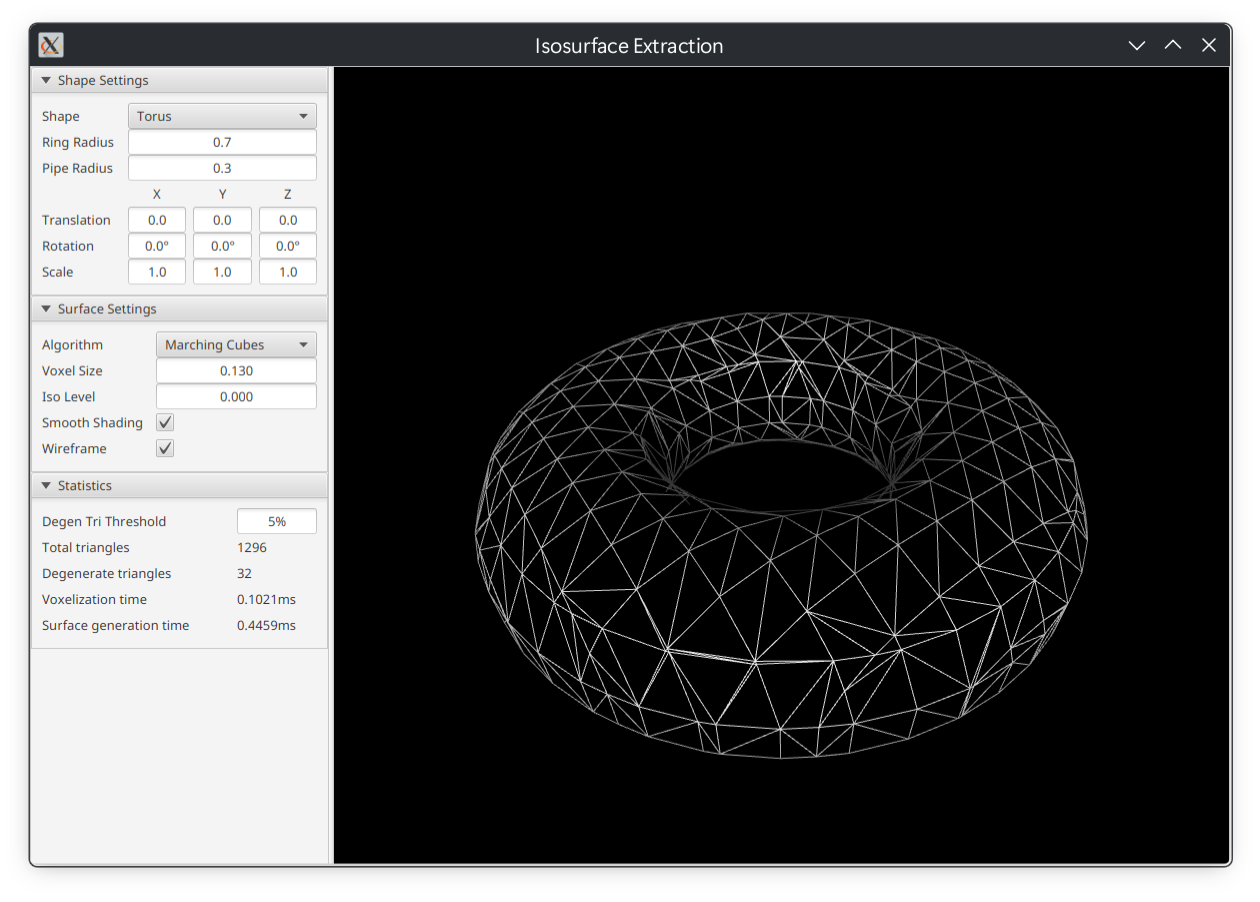
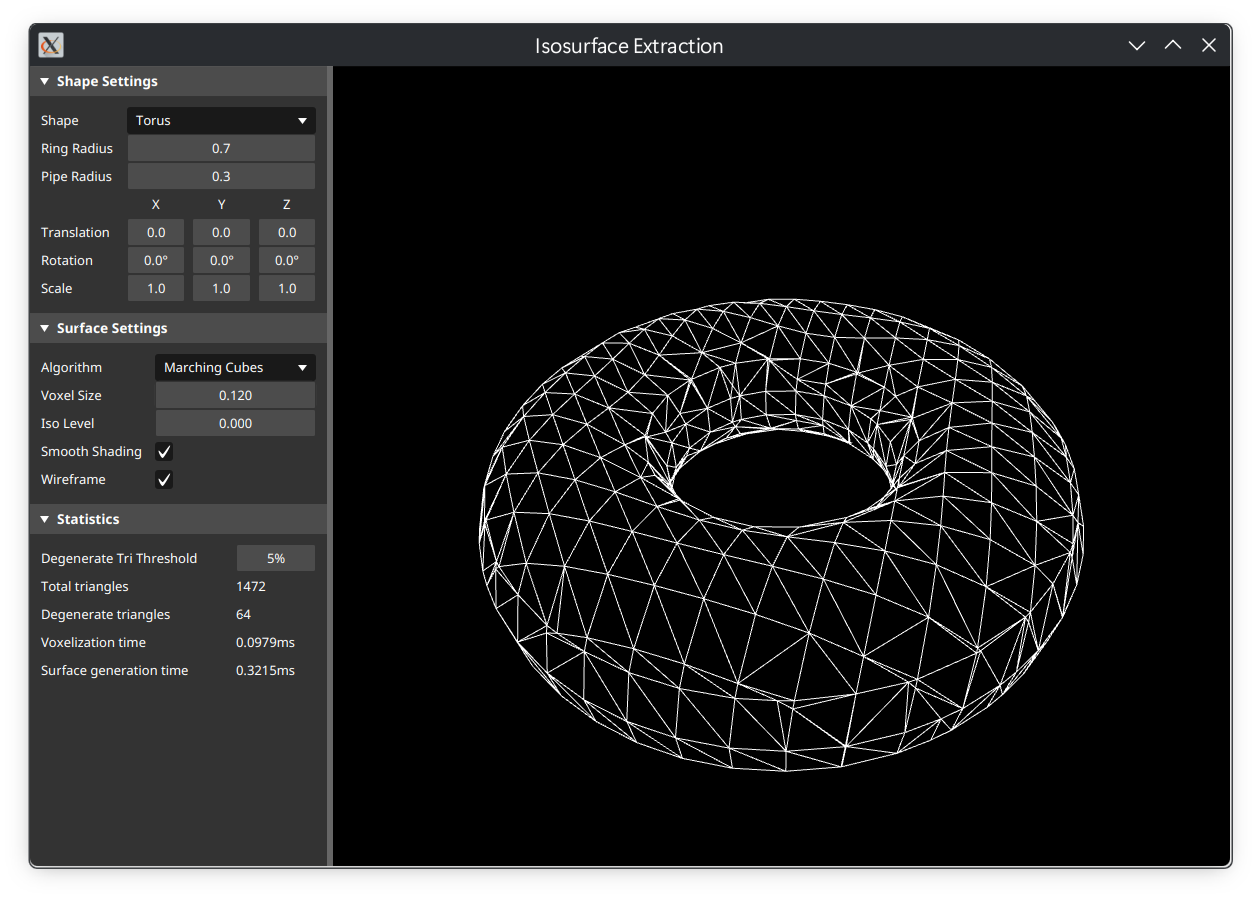
Add a custom theme
Extends the stylesheet to create a custom and more consistent GUI aesthetic.

Changed region(s): [[0.0, 0.0621, 0.9905, 0.9623], [0.3714, 0.3104, 0.8667, 0.8692]]

diff --git a/src/main/resources/style.css b/src/main/resources/style.css
@@ -1,3 +1,143 @@
+* {
+    -dark: hsb(0, 0%, 10%);
+    -dim: hsb(0, 0%, 20%);
+    -mid: hsb(0, 0%, 30%);
+    -light: hsb(0, 0%, 40%);
+
+    -highlight-dark: hsb(0, 0%, 15%);
+    -highlight-mid: hsb(0, 0%, 40%);
+    -highlight-light: hsb(0, 0%, 50%);
+    -highlight-blue: hsb(215, 65%, 70%);
+}
+
 .settings-grid {
     -fx-hgap: 0.5em;
+}
+
+.label, .text-field {
+    -fx-text-fill: white;
+}
+
+.text-field {
+    -fx-background-color: -mid;
+    -fx-background-radius: 5;
+    -fx-border-color: -dim;
+    -fx-highlight-fill: -highlight-blue;
+}
+
+.text-field:hover {
+    -fx-background-color: -highlight-mid;
+}
+
+.combo-box {
+    -fx-background-color: -dark;
+}
+
+.combo-box:hover {
+    -fx-background-color: -highlight-dark;
+}
+
+.combo-box .list-cell {
+    -fx-text-fill: white;
+}
+
+.combo-box-popup > .list-view {
+    -fx-padding: 0;
+}
+
+.combo-box-popup > .list-view .list-cell {
+    -fx-background-color: -dark;
+}
+
+.combo-box-popup > .list-view .list-cell:filled:hover {
+    -fx-background-color: -highlight-dark;
+}
+
+.combo-box-popup > .list-view .list-cell:filled:selected,
+.combo-box-popup > .list-view .list-cell:filled:selected:hover {
+    -fx-background-color: -highlight-blue;
+}
+
+.arrow, .check-box:selected > .box > .mark {
+    -fx-background-color: white;
+}
+
+.check-box > .box {
+    -fx-background-color: -dark;
+}
+
+.check-box:hover > .box {
+    -fx-background-color: -highlight-dark;
+}
+
+.check-box > .box > .mark {
+    -fx-background-color: transparent;
+}
+
+.titled-pane {
+    -fx-text-fill: white;
+}
+
+.titled-pane > .title {
+    -fx-background-color: -mid;
+    -fx-font-size: 105%;
+    -fx-font-weight: bold;
+    -fx-background-radius: 0;
+}
+
+.titled-pane > .title:hover {
+    -fx-background-color: -highlight-mid;
+}
+
+.titled-pane > .title > .arrow-button > .arrow,
+.titled-pane:focused > .title > .arrow-button > .arrow {
+    -fx-effect: null;
+    -fx-background-insets: 0;
+}
+
+.titled-pane > .content {
+    -fx-background-color: -dim;
+    -fx-border-color: -dim;
+}
+
+.split-pane {
+    -fx-padding: 0;
+}
+
+.split-pane-divider {
+    -fx-background-color: -light;
+}
+
+.split-pane-divider:hover {
+    -fx-background-color: -highlight-light;
+}
+
+.scroll-pane > .viewport {
+    -fx-background-color: -dim;
+}
+
+.scroll-bar,
+.scroll-bar > .track {
+    -fx-border-color: -mid;
+    -fx-background-color: -mid;
+}
+
+.scroll-bar:vertical > .increment-button,
+.scroll-bar:vertical > .decrement-button {
+    -fx-min-height: 0;
+    -fx-max-height: 0;
+    -fx-pref-height: 0;
+}
+
+.scroll-bar:vertical > .increment-button > .increment-arrow,
+.scroll-bar:vertical > .decrement-button > .decrement-arrow {
+    -fx-background-color: transparent;
+}
+
+.scroll-bar > .thumb {
+    -fx-background-color: -dark;
+}
+
+.scroll-bar > .thumb:hover {
+    -fx-background-color: -highlight-dark;
 }

diff --git a/src/main/java/org/openjfx/isosurface/ui/SettingsPanel.java b/src/main/java/org/openjfx/isosurface/ui/SettingsPanel.java
@@ -382,7 +382,7 @@ public final class SettingsPanel {
      * Adds the statistics section to this settings panel.
      */
     private void addStatisticsPane() {
-        final Label degenTriThresholdLabel = new Label("Degen Tri Threshold");
+        final Label degenTriThresholdLabel = new Label("Degenerate Tri Threshold");
         final Label totalTriangles = new Label("Total triangles");
         final Label degenerateTrianglesLabel = new Label("Degenerate triangles");
         final Label voxelizationTimeLabel = new Label("Voxelization time");
